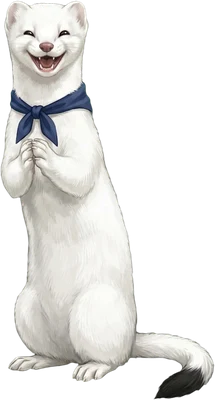
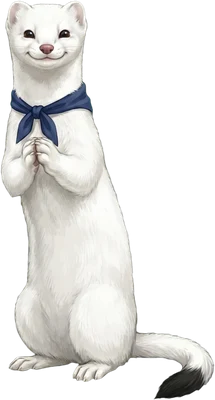
こゆきの笑顔を、口を閉じたやさしい笑顔に描き直す (#116)
* マイページで担当者の名前を入れられるようにする

Claude-Session: https://claude.ai/code/session_01Dfj8uCgoFYmBxr41ojgaov

* 案内役を しおり・源さん・こゆき（オコジョ）から選べるようにする

男の人とオコジョの絵は Gemini で15表情ずつ作り、背景を抜いて透過にした。
マイページで選ぶと、ログイン後の画面の絵と顔のアイコンがかわる。

Claude-Session: https://claude.ai/code/session_01Dfj8uCgoFYmBxr41ojgaov

* 案内役の服を選べるようにする（しおり5着・源さん2着・おまかせ）。源さんを白髪まじりのベテラン職人に

Claude-Session: https://claude.ai/code/session_01Dfj8uCgoFYmBxr41ojgaov

* スーツのしおりを Gemini で作り直す（ほかの服と同じ顔に）

Claude-Session: https://claude.ai/code/session_01Dfj8uCgoFYmBxr41ojgaov

* 案内役の服に 体操着 と お出かけ を足す（しおり・源さん）

Claude-Session: https://claude.ai/code/session_01Dfj8uCgoFYmBxr41ojgaov

* しおりのお出かけの服からコートを外す

Claude-Session: https://claude.ai/code/session_01Dfj8uCgoFYmBxr41ojgaov

* こゆきを本物に近いオコジョに描き直し、案内役に本気で怒る表情を足す

Claude-Session: https://claude.ai/code/session_01Dfj8uCgoFYmBxr41ojgaov

* こゆきの笑顔を、口を閉じたやさしい笑顔に描き直す

Claude-Session: https://claude.ai/code/session_01Dfj8uCgoFYmBxr41ojgaov

---------

diff --git a/src/lib/guideWidths.ts b/src/lib/guideWidths.ts
@@ -5,7 +5,7 @@ export const GUIDE_WIDTHS: Record<string, Record<string, number>> = {
   "gen-gym": {"angry": 301, "ask": 243, "bow": 237, "cheer": 256, "coffee": 243, "idea": 264, "joy": 236, "point": 239, "right": 246, "sad": 231, "surprise": 299, "think": 234, "welldone": 237},
   "gen-out": {"angry": 265, "ask": 248, "bow": 249, "cheer": 266, "coffee": 248, "idea": 258, "joy": 242, "point": 276, "right": 254, "sad": 244, "surprise": 288, "think": 228, "welldone": 240},
   "gen-suit": {"angry": 279, "ask": 230, "bow": 238, "cheer": 251, "coffee": 231, "idea": 231, "joy": 220, "point": 242, "right": 231, "sad": 211, "surprise": 277, "think": 213, "welldone": 215},
-  "koyuki": {"angry": 288, "ask": 217, "bow": 232, "cheer": 248, "coffee": 220, "idea": 238, "jersey-cheer": 222, "jersey-done": 230, "jersey-stretch": 211, "joy": 215, "point": 218, "right": 248, "sad": 232, "surprise": 252, "think": 212, "welldone": 225},
+  "koyuki": {"angry": 288, "ask": 224, "bow": 232, "cheer": 218, "coffee": 220, "idea": 250, "jersey-cheer": 223, "jersey-done": 234, "jersey-stretch": 204, "joy": 215, "point": 217, "right": 259, "sad": 232, "surprise": 252, "think": 212, "welldone": 225},
   "shiori": {"angry": 250, "ask": 193, "bow": 153, "cheer": 239, "coffee": 188, "idea": 209, "jersey-cheer": 238, "jersey-done": 200, "jersey-stretch": 295, "joy": 173, "point": 230, "right": 208, "sad": 191, "surprise": 241, "think": 186, "welldone": 173},
   "shiori-casual": {"angry": 284, "ask": 256, "bow": 237, "cheer": 224, "coffee": 210, "idea": 212, "joy": 197, "point": 245, "right": 218, "sad": 198, "surprise": 289, "think": 191, "welldone": 194},
   "shiori-gym": {"angry": 266, "ask": 245, "bow": 175, "cheer": 267, "coffee": 175, "idea": 202, "joy": 167, "point": 243, "right": 212, "sad": 169, "surprise": 250, "think": 163, "welldone": 170},

diff --git a/docs/HANDOFF.md b/docs/HANDOFF.md
@@ -122,7 +122,7 @@
 ### 2026-11-07 CC（Claude、プロジェクトのスレッド）こゆきをリアルに・本気で怒る表情
 - ブランチ：claude/project-thread-fdzisk
 - 変更点：こゆきを本物に近いオコジョ16表情に差し替え。表情 angry を全員・全服に追加（Gemini）。ホームの表情を homeMood で決める（きびしめで止まっているときだけ angry。テストあり）。新しくなったことに1つ
-- 確認結果：lint・型検査・テスト通過。絵の一覧を目で確認（こゆきのおじぎは丸まって見えたので描き直した）
+- 確認結果：lint・型検査・テスト通過。絵の一覧を目で確認（こゆきのおじぎは丸まって見えたので描き直した）。田村さん「笑い顔が怖いかも」で、笑う表情11個と顔のアイコンを口を閉じたやさしい笑顔に描き直した
 
 ### 2026-11-07 CC（Claude、プロジェクトのスレッド）体操着とお出かけの服
 - ブランチ：claude/project-thread-fdzisk
